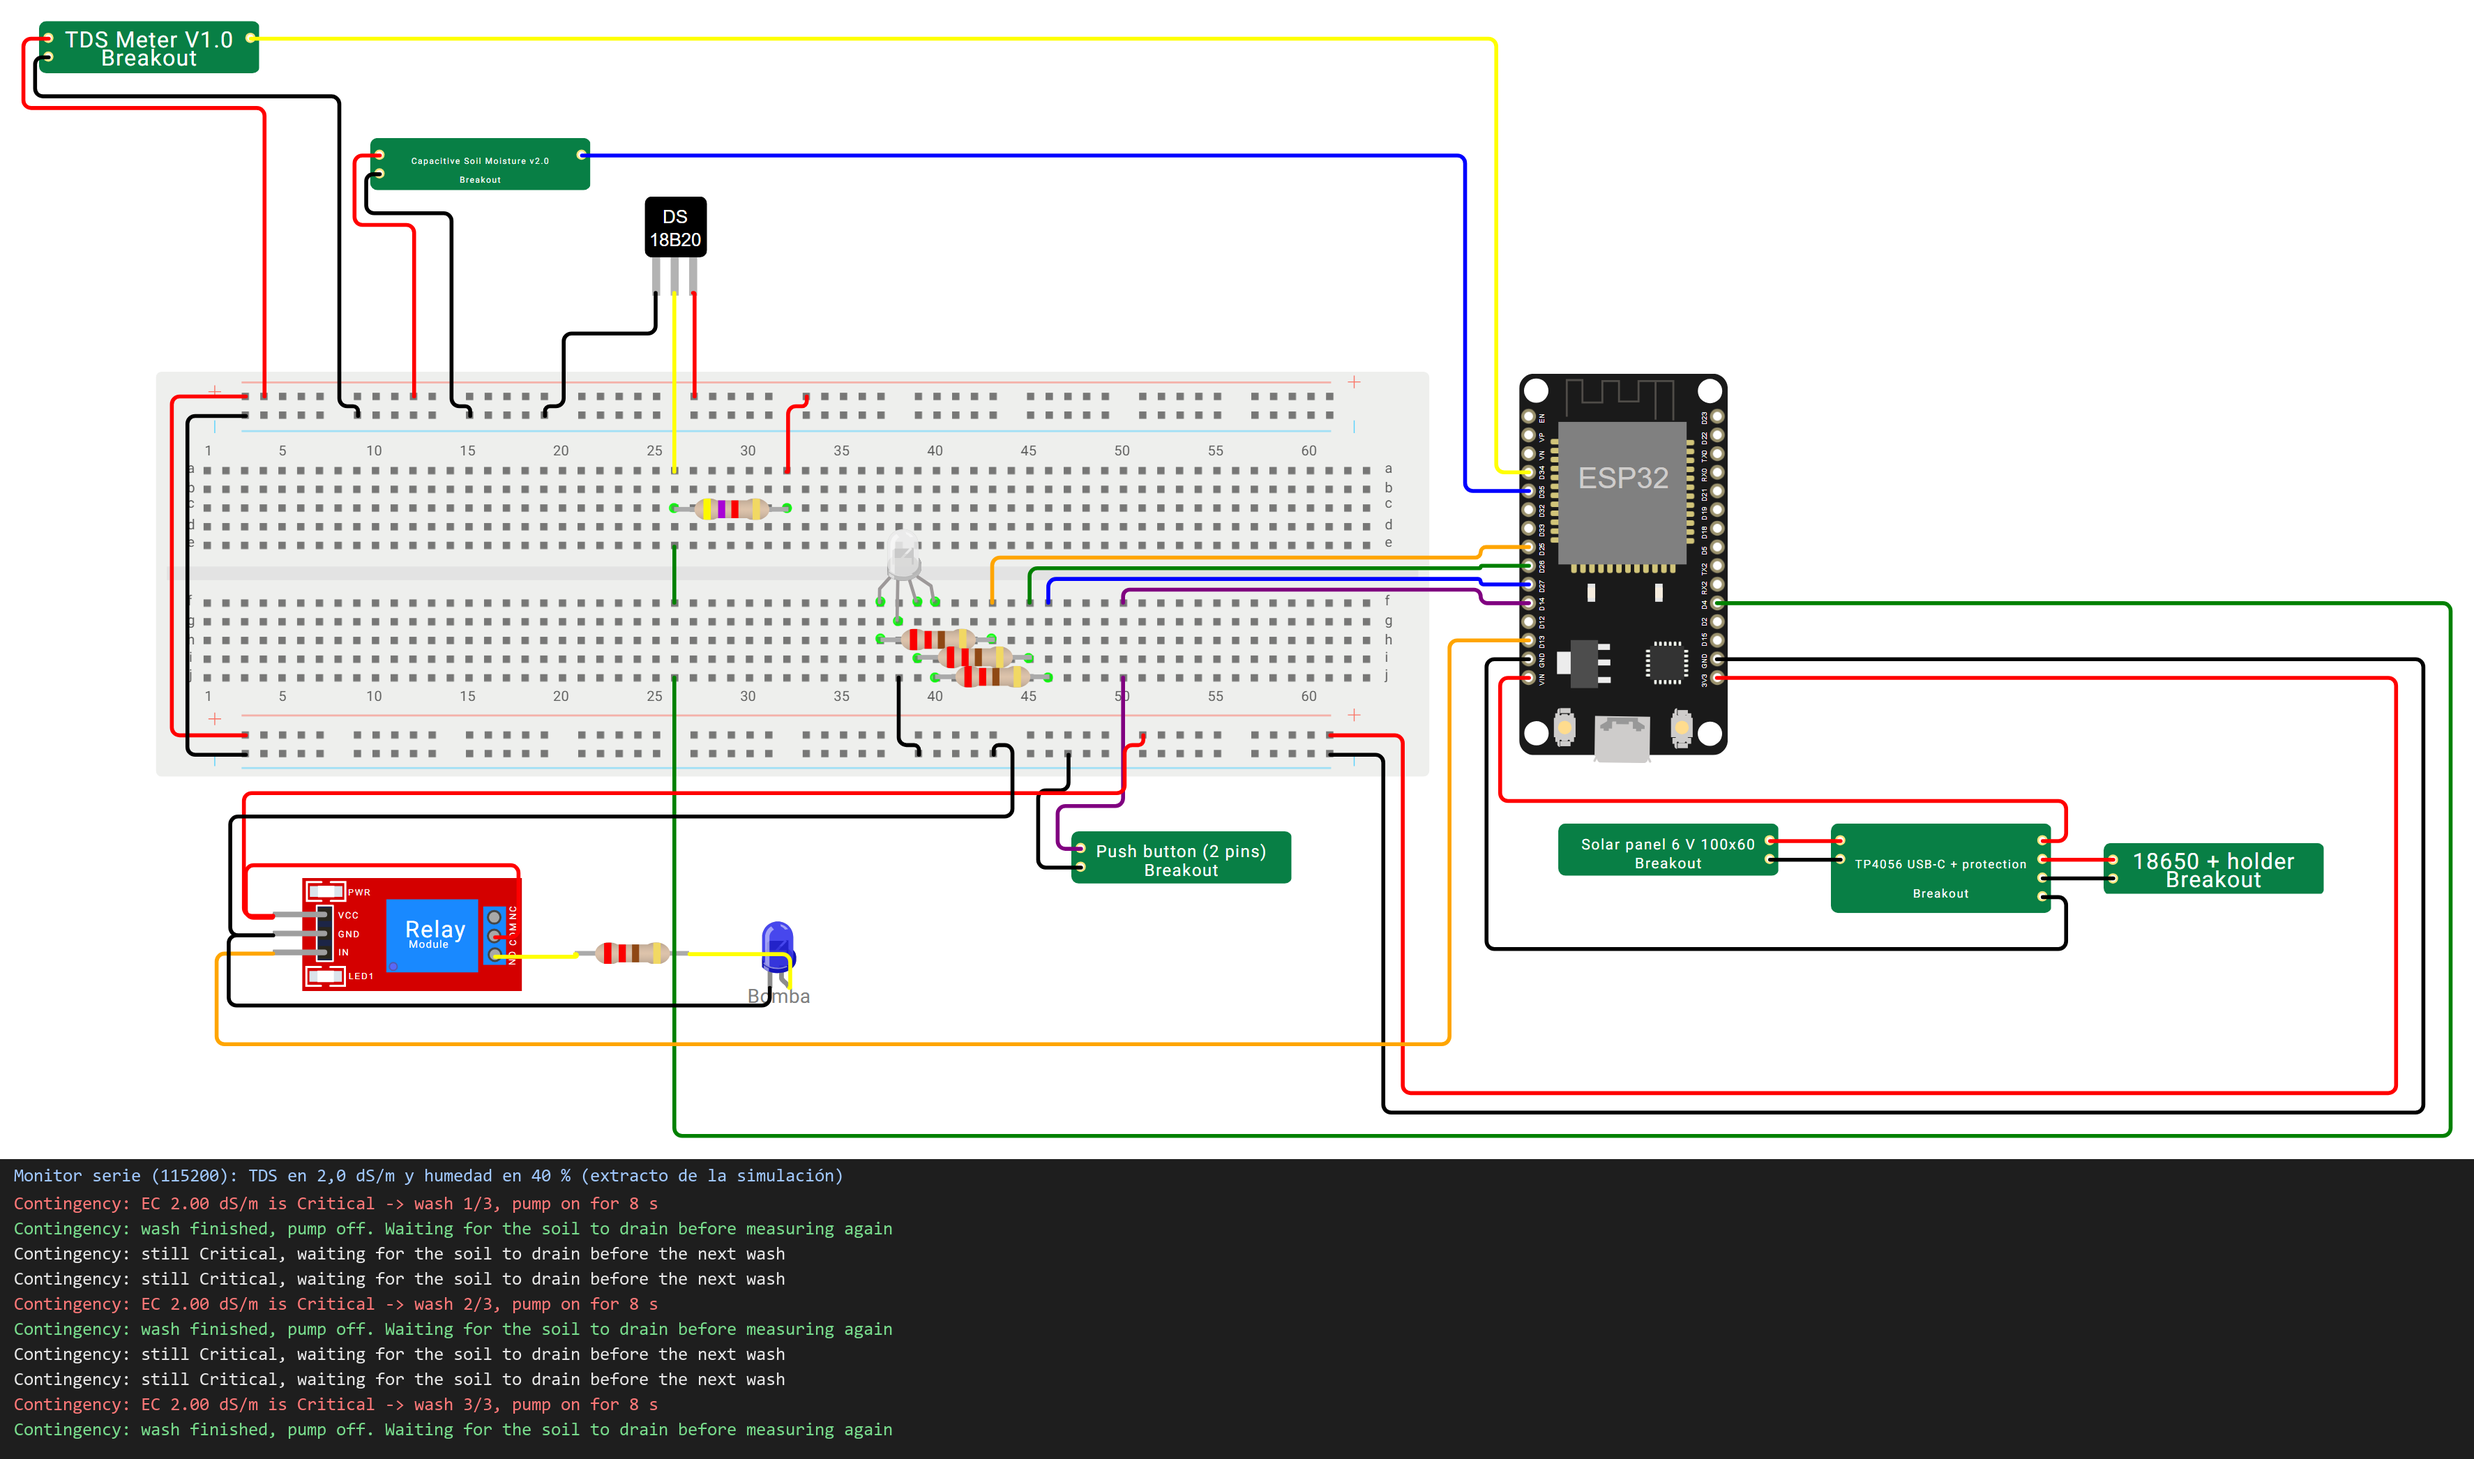
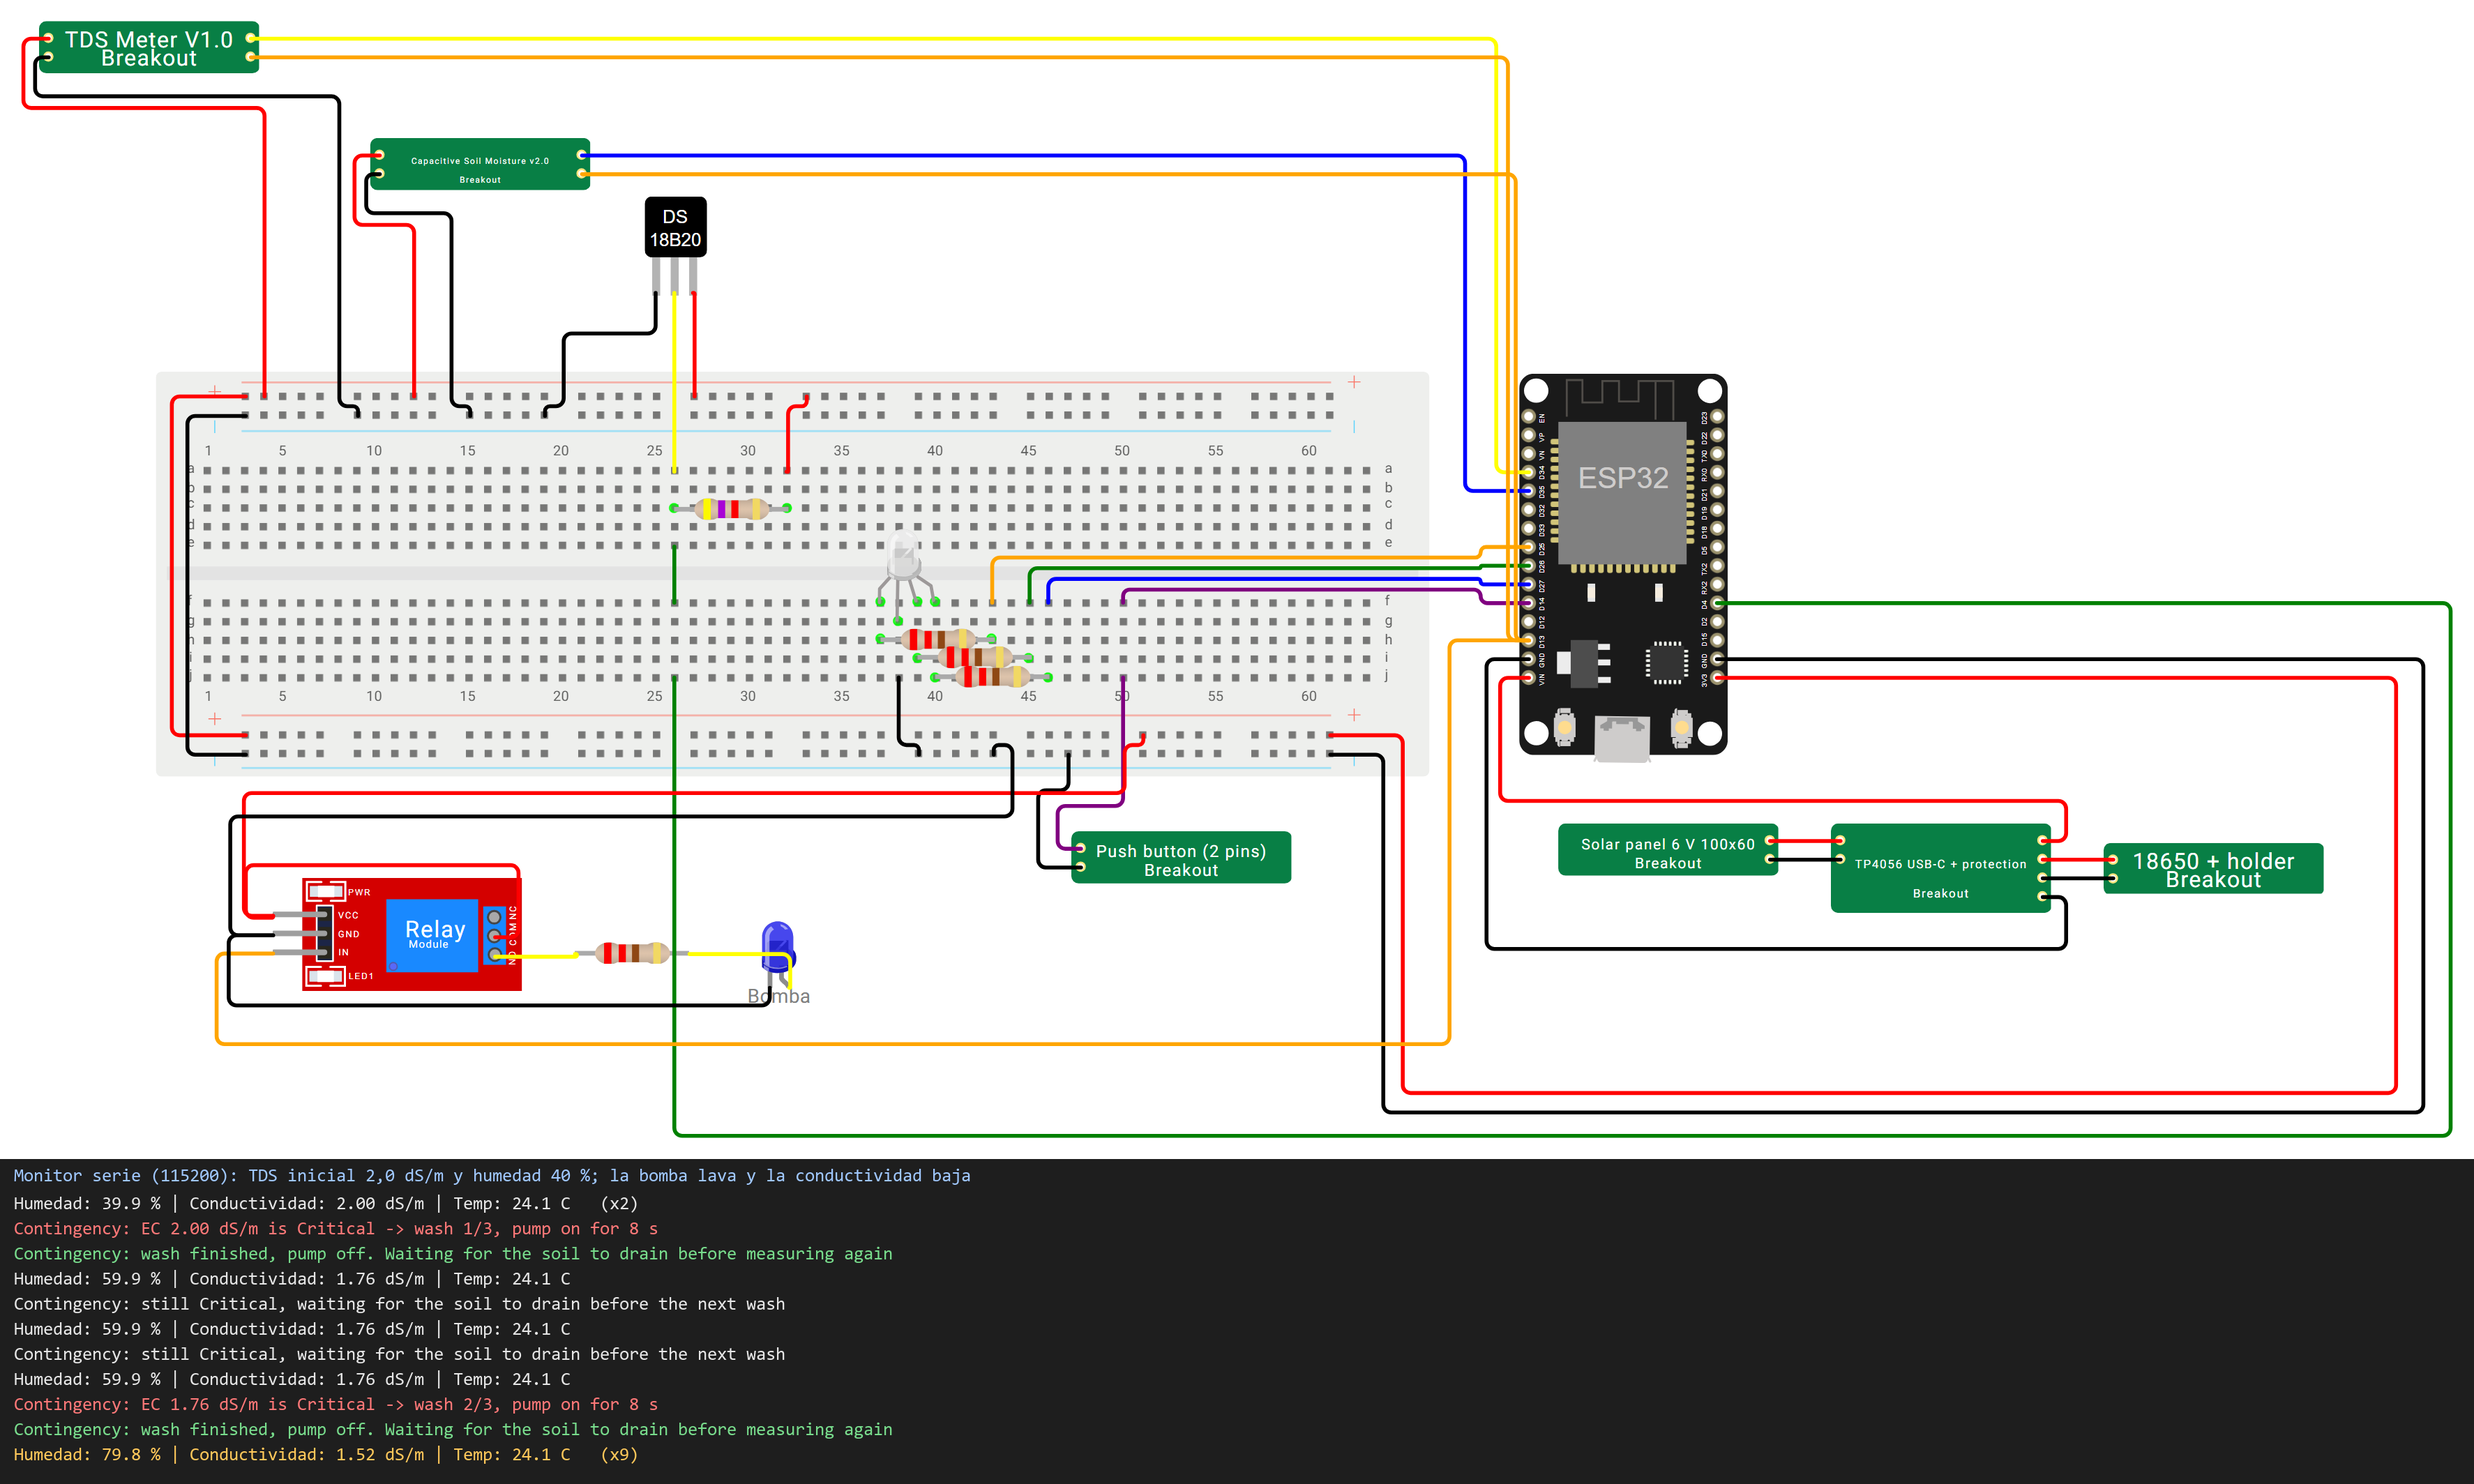
docs(chapter-5): show the wash loop closing in the wokwi simulation

Changed region(s): [[0.0, 0.0932, 1.0, 0.9943], [0.0, 0.0, 0.6202, 0.0932]]

diff --git a/assets/iot-device/wokwi/tds-meter.chip.c b/assets/iot-device/wokwi/tds-meter.chip.c
@@ -10,21 +10,36 @@
 #define VOLTS_PER_DSM (3.3f / 3.2f)
 #define VOLTS_MAX 2.3f
 
+// The PUMP pin listens to the relay signal (GPIO 13). While the pump runs, the washed soil loses salt: the simulated
+// extract drops WASH_DSM_PER_SECOND each second, so the contingency can be seen closing the loop. Moving the slider
+// sets a new value and starts over.
+#define WASH_DSM_PER_SECOND 0.03f
+#define TICK_SECONDS 0.01f
+
 typedef struct {
   pin_t out;
+  pin_t pump;
   uint32_t conductivity;
+  float current;
+  float lastSlider;
 } chip_state_t;
 
 static void update(void *user_data) {
   chip_state_t *chip = (chip_state_t *)user_data;
-  float volts = attr_read_float(chip->conductivity) * VOLTS_PER_DSM;
+  float slider = attr_read_float(chip->conductivity);
+  if (slider != chip->lastSlider) { chip->lastSlider = slider; chip->current = slider; }
+  if (pin_read(chip->pump)) { chip->current -= WASH_DSM_PER_SECOND * TICK_SECONDS; if (chip->current < 0) chip->current = 0; }
+  float volts = chip->current * VOLTS_PER_DSM;
   pin_dac_write(chip->out, (volts > VOLTS_MAX ? VOLTS_MAX : volts) * WOKWI_ADC_SCALE);
 }
 
 void chip_init(void) {
   chip_state_t *chip = malloc(sizeof(chip_state_t));
   chip->out = pin_init("A", ANALOG);
+  chip->pump = pin_init("PUMP", INPUT_PULLDOWN);
   chip->conductivity = attr_init_float("conductivity", 0.8f);
+  chip->lastSlider = attr_read_float(chip->conductivity);
+  chip->current = chip->lastSlider;
   const timer_config_t config = { .callback = update, .user_data = chip };
   timer_start(timer_init(&config), 10000, true);
   update(chip);

diff --git a/assets/iot-device/wokwi/soil-moisture-v12.chip.c b/assets/iot-device/wokwi/soil-moisture-v12.chip.c
@@ -10,21 +10,35 @@
 #define VOLTS_DRY 2.58f
 #define VOLTS_WET 1.05f
 
+// The PUMP pin listens to the relay signal (GPIO 13): while the pump runs the soil gets wetter (WET_PERCENT_PER_SECOND).
+// Moving the slider sets a new value and starts over.
+#define WET_PERCENT_PER_SECOND 2.5f
+#define TICK_SECONDS 0.01f
+
 typedef struct {
   pin_t aout;
+  pin_t pump;
   uint32_t moisture;
+  float current;
+  float lastSlider;
 } chip_state_t;
 
 static void update(void *user_data) {
   chip_state_t *chip = (chip_state_t *)user_data;
-  float percent = attr_read_float(chip->moisture);
+  float slider = attr_read_float(chip->moisture);
+  if (slider != chip->lastSlider) { chip->lastSlider = slider; chip->current = slider; }
+  if (pin_read(chip->pump)) { chip->current += WET_PERCENT_PER_SECOND * TICK_SECONDS; if (chip->current > 100) chip->current = 100; }
+  float percent = chip->current;
   pin_dac_write(chip->aout, (VOLTS_DRY + (VOLTS_WET - VOLTS_DRY) * percent / 100.0f) * WOKWI_ADC_SCALE);
 }
 
 void chip_init(void) {
   chip_state_t *chip = malloc(sizeof(chip_state_t));
   chip->aout = pin_init("AOUT", ANALOG);
+  chip->pump = pin_init("PUMP", INPUT_PULLDOWN);
   chip->moisture = attr_init_float("moisture", 38);
+  chip->lastSlider = attr_read_float(chip->moisture);
+  chip->current = chip->lastSlider;
   const timer_config_t config = { .callback = update, .user_data = chip };
   timer_start(timer_init(&config), 10000, true);
   update(chip);

diff --git a/chapters/chapter5.md b/chapters/chapter5.md
@@ -1407,9 +1407,11 @@ Si el suelo llega al nivel Crítico, el dispositivo no solo avisa: actúa. Con u
 
 La contingencia funciona con o sin el Edge Service (si este no responde, usa la conductividad sin compensar) y, si el relé no está conectado, solo registra la decisión en el monitor serie. Al agotarse los lavados con la salinidad todavía crítica, el dispositivo lo avisa en el monitor serie y la persona debe revisar el agua de riego o el sustrato.
 
+En la simulación el lazo se cierra: los chips del sensor de conductividad y del sensor de humedad tienen un pin `PUMP` conectado a la señal del relé (GPIO 13). Mientras la bomba funciona, la conductividad simulada baja 0,03 dS/m por segundo y la humedad sube 2,5 puntos por segundo; al mover el control deslizante se parte de un valor nuevo. Así se ve el ciclo completo: medir, lavar, esperar el drenaje y volver a medir hasta que el nivel deja de ser Crítico.
+
 <div align="center">
 <img src="../assets/iot-device/iot-contingencia-serie.png" alt="Simulación en Wokwi con el monitor serie mostrando los lavados de la contingencia" width="800">
-<p><em>Figura 5.114. Simulación de la contingencia: la conductividad se mantiene en 2,0 dS/m (Crítico), la bomba se enciende tres veces y luego el dispositivo pide intervención de una persona.</em></p>
+<p><em>Figura 5.114. Simulación de la contingencia con el circuito completo: con 2,0 dS/m (Crítico) la bomba lava dos veces, la conductividad baja a 1,76 y luego a 1,52 dS/m (Alto) y la humedad sube de 40 % a 80 %, así que el dispositivo deja de lavar.</em></p>
 </div>
 
 Los archivos del circuito (`diagram.json`, `libraries.txt` y los *custom chips* `.chip.json` y `.chip.c`) y el firmware (`sketch.ino` y sus módulos `.h` y `.cpp`) se versionan en `assets/iot-device/wokwi/` del repositorio del informe y se pueden subir a un proyecto nuevo de Wokwi para ejecutar la simulación.

diff --git a/versions.md b/versions.md
@@ -138,6 +138,7 @@
 | 0.0.132 | 02/11/2026 | Andreow Jomark Santiago Peña | Capítulo VI: sección 6.2.2.6 con el recorrido de la Web App y de la Mobile App vuelto a tomar sobre `develop` (Figuras 6.24 a 6.35), ya con las correcciones de la evaluación heurística y el rediseño del inicio; pies de figura y resultado de la sección 6.3.3 actualizados. |
 | 0.0.133 | 08/11/2026 | Andreow Jomark Santiago Peña | Carátula con el interlineado y los márgenes del modelo oficial del curso, para que ocupe la página como el modelo. |
 | 0.0.134 | 08/11/2026 | Andreow Jomark Santiago Peña | Capítulo V, sección 5.6: contingencia por salinidad crítica (relé, minibomba y reglas de lavado), circuito de Wokwi actualizado (Figura 5.113) y simulación de la contingencia (Figura 5.114); Capítulo VI: descripción de la Embedded Application actualizada. |
+| 0.0.135 | 08/11/2026 | Andreow Jomark Santiago Peña | Capítulo V, sección 5.6: los chips de conductividad y humedad de Wokwi reaccionan a la bomba (pin PUMP) y la Figura 5.114 muestra el lazo cerrado: la conductividad baja de 2,0 a 1,52 dS/m tras dos lavados. |
 
 <div style="page-break-before: always; break-before: page;"></div>
 
